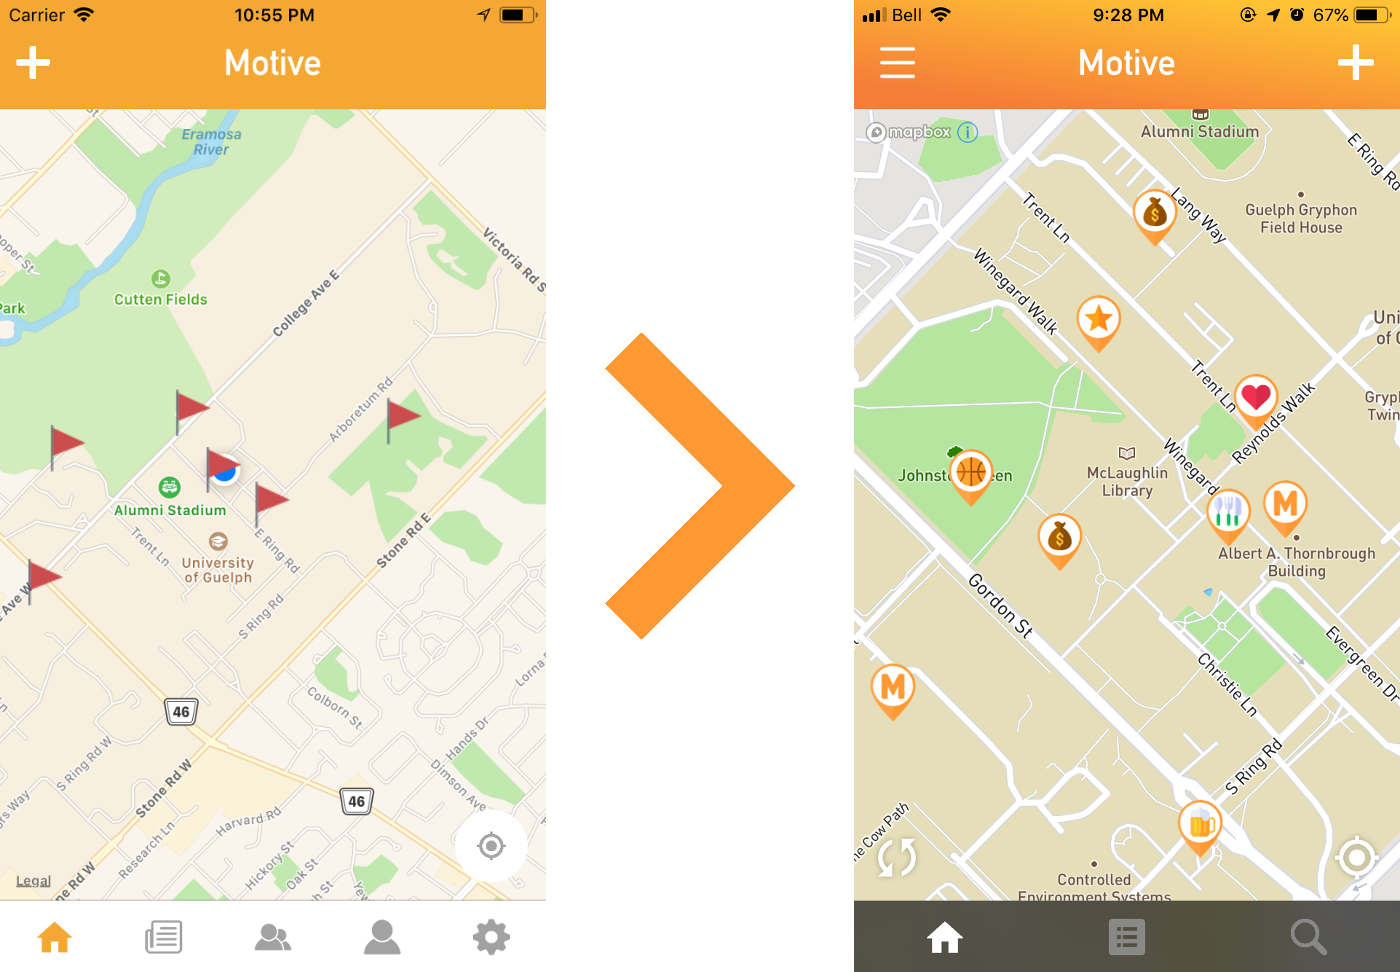
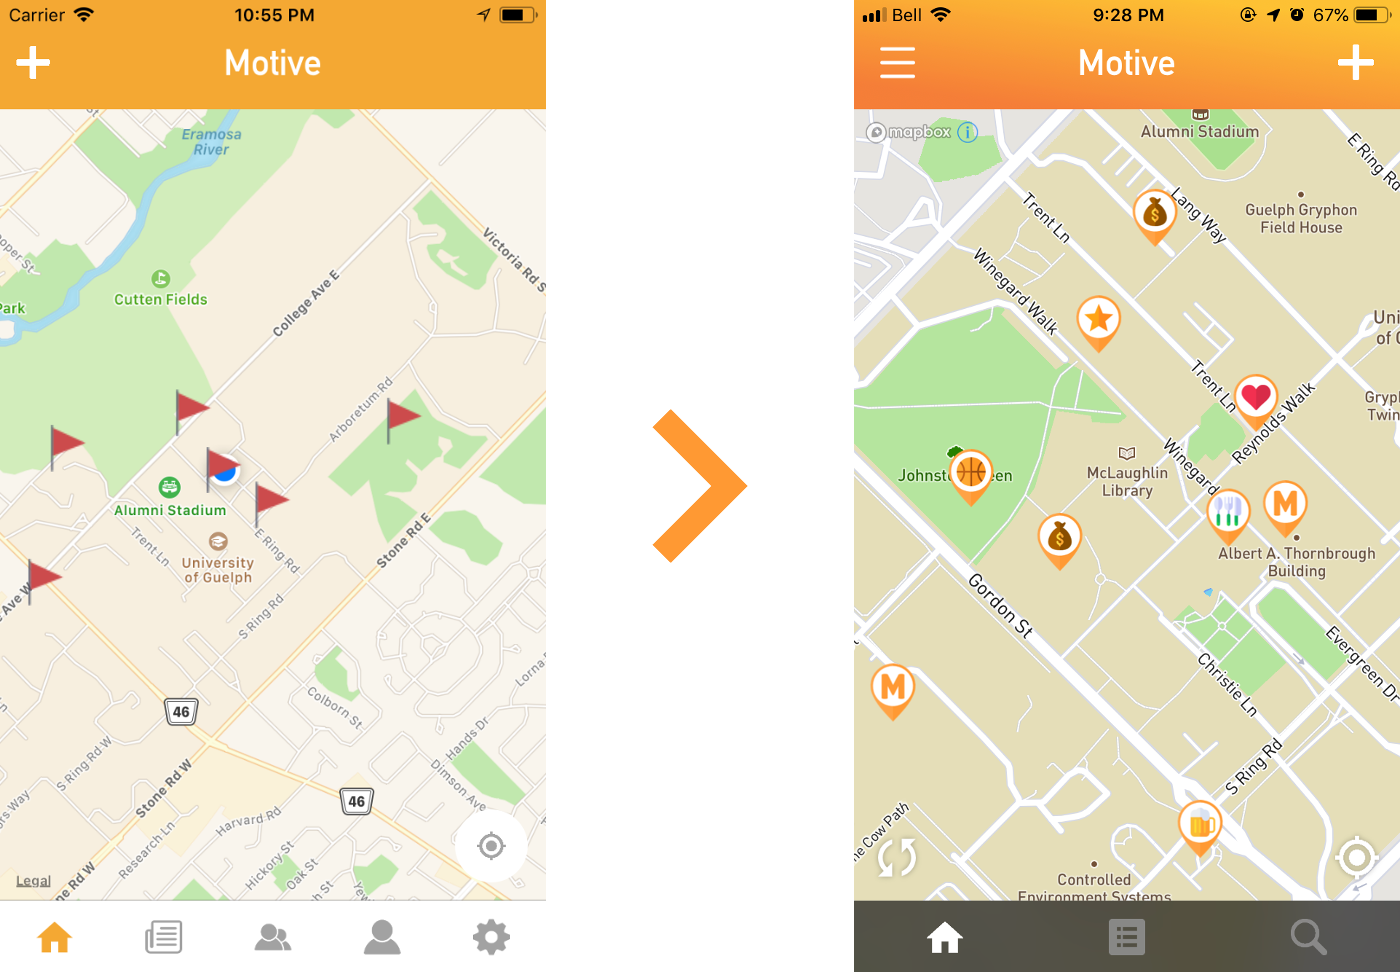
design iterations

Changed region(s): [[0.43, 0.3395, 0.5836, 0.6481]]

diff --git a/_site/projects.html b/_site/projects.html
@@ -120,10 +120,19 @@
 <br /><br />
 I began by sketching out what the app would look like and creating the branding. I choose the name Motive because it's catchy, simple, and has a memorable punchline that inspire users to create posts: <i>"What's the Motive?"</i>. I used the site <a href="https://uigradients.com">uigradients.com</a> to find a colour gradient I liked that would suit the app. I choose orange because it accurately portrays the fast paced nature of a social network that shows the user what is currently going on around them. I took design inspiration from SnapChat's SnapMap feature for the map component of the app and Twitter for the text feed. </p>
 
-<img class="notrounded half" src="https://raw.githubusercontent.com/JasonEllul/JasonEllul.github.io/master/public/images/motive_design.JPG" alt="Motive Design Iterations" />
+<img class="notrounded half" src="https://raw.githubusercontent.com/JasonEllul/JasonEllul.github.io/master/public/images/motive_design.png" alt="Motive Design Iterations" />
 
-<p class="paddington">Here are one of the early sketches I created for what the post details screen would look like. </p>
+<center><p class="paddington">Here are one of the early sketches I created for a view that would show the details of a specific post. On the right shows what that same functionality ended up looking like in the app.</p></center>
+<br />
 
+<img class="notrounded half" src="https://raw.githubusercontent.com/JasonEllul/JasonEllul.github.io/master/public/images/motive_map_compare.png" alt="Motive Design Iterations" />
+
+<center><p class="paddington">The home map view after many usability tests and visual overhauls.</p></center>
+<br />
+
+<img class="notrounded half" src="https://raw.githubusercontent.com/JasonEllul/JasonEllul.github.io/master/public/images/motive_profile_compare.png" alt="Motive Design Iterations" />
+<center><p class="paddington">The profile view after a few design iterations.</p></center>
+<br />
 <p class="paddington"><br />Motive is coming to the exclusively on the Apple App Store in 2019. It is currently in open beta and you can download the app onto any iOS device <a href="https://testflight.apple.com/join/bNDtFSKZ">here</a>.</p>
 
 

diff --git a/projects.md b/projects.md
@@ -31,10 +31,19 @@ title: Projects
 <br><br>
 I began by sketching out what the app would look like and creating the branding. I choose the name Motive because it's catchy, simple, and has a memorable punchline that inspire users to create posts: <i>"What's the Motive?"</i>. I used the site <a href="https://uigradients.com">uigradients.com</a> to find a colour gradient I liked that would suit the app. I choose orange because it accurately portrays the fast paced nature of a social network that shows the user what is currently going on around them. I took design inspiration from SnapChat's SnapMap feature for the map component of the app and Twitter for the text feed. </p>
 
-<img class="notrounded half" src="https://raw.githubusercontent.com/JasonEllul/JasonEllul.github.io/master/public/images/motive_design.JPG" alt="Motive Design Iterations">
+<img class="notrounded half" src="https://raw.githubusercontent.com/JasonEllul/JasonEllul.github.io/master/public/images/motive_design.png" alt="Motive Design Iterations">
 
-<p class="paddington">Here are one of the early sketches I created for what the post details screen would look like. </p>
+<center><p class="paddington">Here are one of the early sketches I created for a view that would show the details of a specific post. On the right shows what that same functionality ended up looking like in the app.</p></center>
+<br>
 
+<img class="notrounded half" src="https://raw.githubusercontent.com/JasonEllul/JasonEllul.github.io/master/public/images/motive_map_compare.png" alt="Motive Design Iterations">
+
+<center><p class="paddington">The home map view after many usability tests and visual overhauls.</p></center>
+<br>
+
+<img class="notrounded half" src="https://raw.githubusercontent.com/JasonEllul/JasonEllul.github.io/master/public/images/motive_profile_compare.png" alt="Motive Design Iterations">
+<center><p class="paddington">The profile view after a few design iterations.</p></center>
+<br>
 <p class="paddington"><br>Motive is coming to the exclusively on the Apple App Store in 2019. It is currently in open beta and you can download the app onto any iOS device <a href="https://testflight.apple.com/join/bNDtFSKZ">here</a>.</p>
 
 
